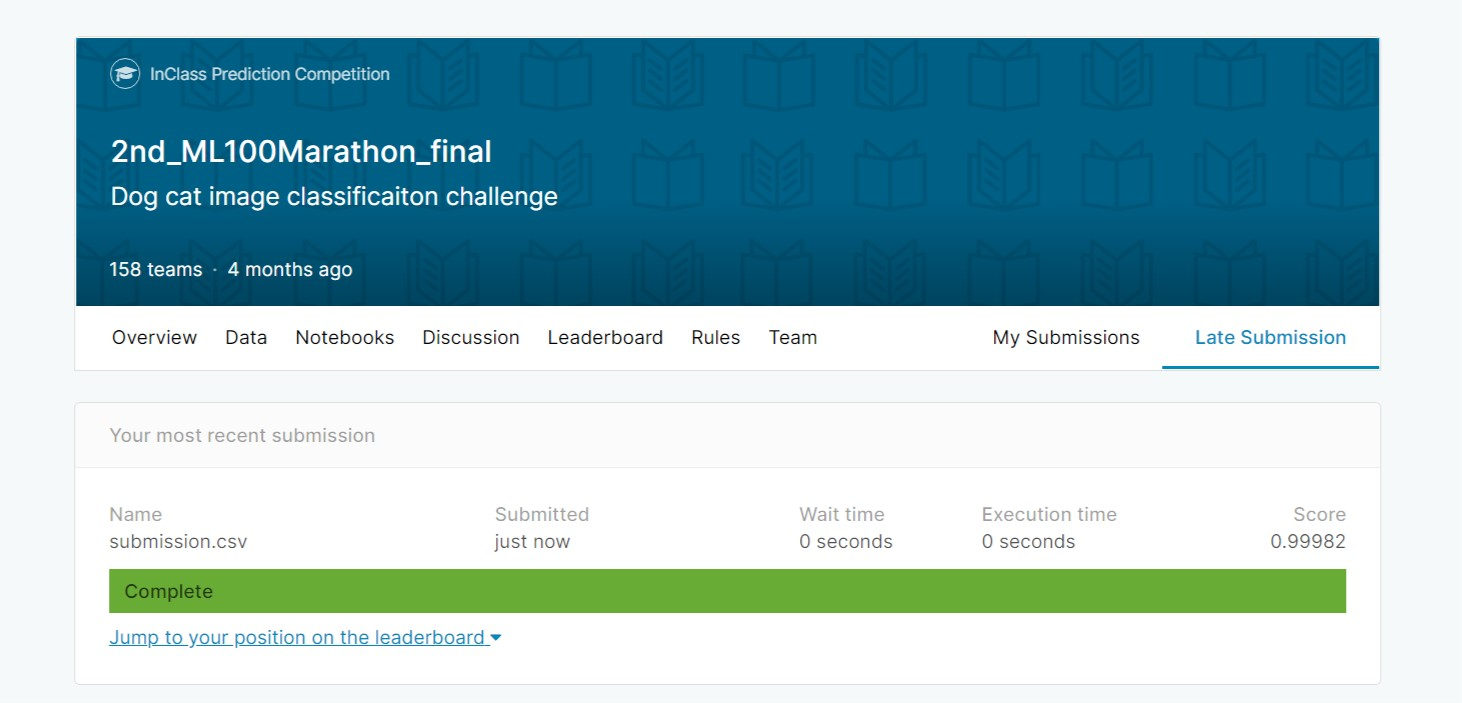
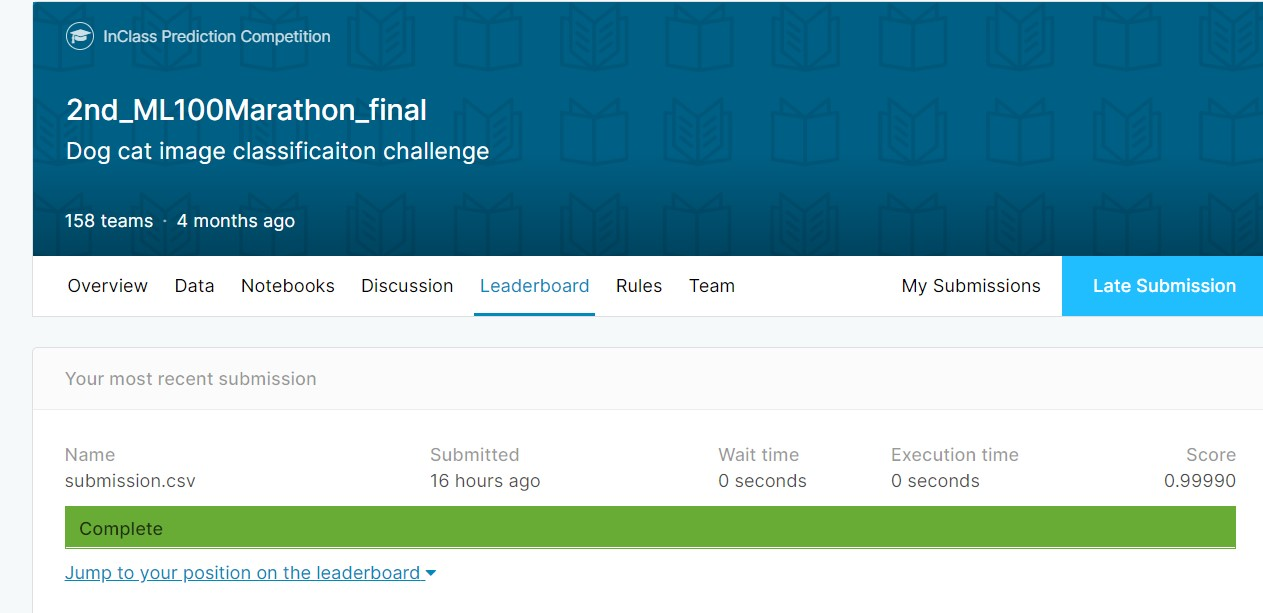
Resnet50 + KFold

Changed region(s): [[0.0, 0.0, 1.0, 0.5269], [0.0309, 0.7129, 0.9881, 0.9608], [0.0618, 0.5889, 0.247, 0.6509]]

diff --git a/final_exam/dog_cat/README.md b/final_exam/dog_cat/README.md
@@ -1,5 +1,5 @@
 # ML100 Final Exam
 https://www.kaggle.com/c/ml-marathon-final/leaderboard
 
-## I finished in 9th place in LB. 
+## I finished in 5th place in LB. 
 ![image](https://github.com/Stan-Lin/2nd-ML100Days/blob/master/final_exam/dog_cat/Score%20(LB)%20in%20kaggle.jpg)
